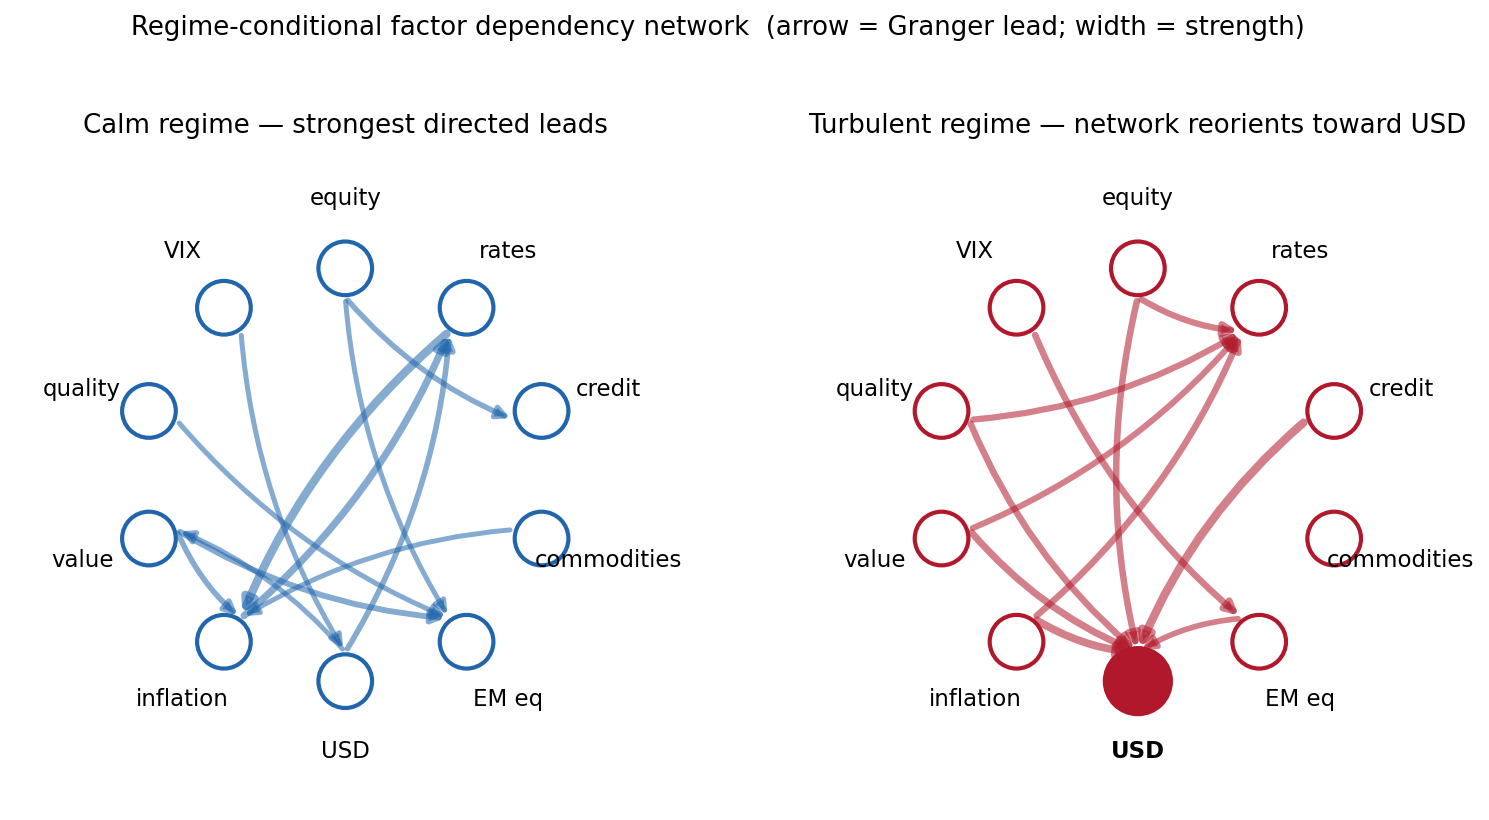
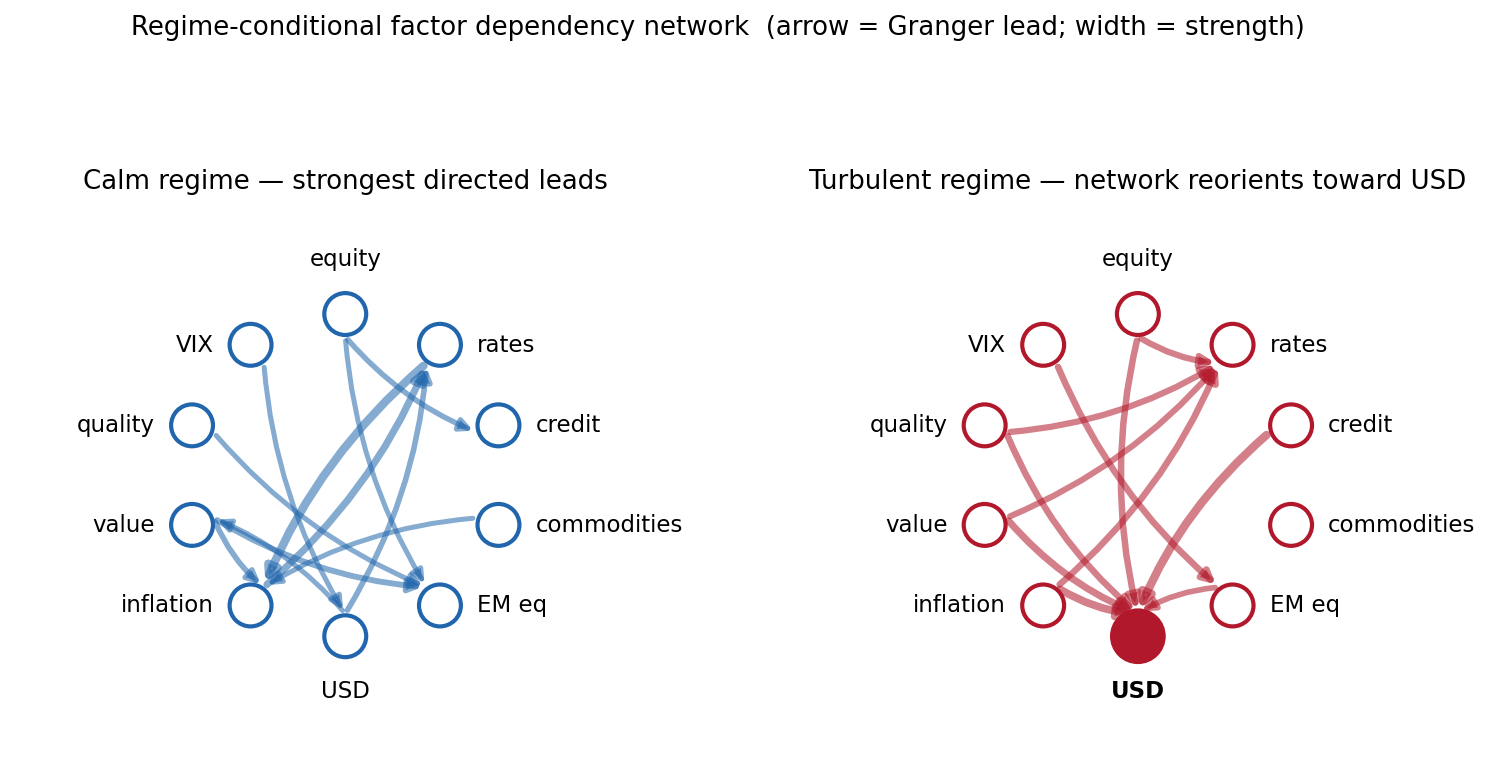
thesis_figures: fix two label collisions
Figure 1.1: the dashed TRIGGER/ANATOMY divider ran the full height of the panel
and printed straight through the amber straddling row's two grey annotation
lines. It now stops above that row; the white gutter between the two coloured
panels carries the separation the rest of the way down.

Figure 4.4: node labels were placed radially with ha='center', so a long flank
label ran back over its own circle -- 'commodities' collided with its node in
both the calm and turbulent panels. Labels on the flanks are now anchored just
outside the circle and run outward, with the x-limits widened to fit the longest.

diff --git a/thesis_figures.py b/thesis_figures.py
@@ -65,7 +65,10 @@ def fig_boundary():
     fig, ax = plt.subplots(figsize=(12, 6)); ax.axis("off"); ax.set_xlim(0,10); ax.set_ylim(0,10)
     ax.add_patch(plt.Rectangle((0.2,0.8),4.5,8.4, fc="#fdecea", ec="none"))
     ax.add_patch(plt.Rectangle((5.3,0.8),4.5,8.4, fc="#e9f3ec", ec="none"))
-    ax.plot([5.0,5.0],[0.8,9.2], ls=(0,(6,4)), color="0.3", lw=2.5)
+    # stops above the amber straddling row: it used to print straight through that
+    # row's two grey lines, and a stub below them reads as debris. The white gutter
+    # between the two panels carries the separation the rest of the way down.
+    ax.plot([5.0,5.0],[3.32,9.2], ls=(0,(6,4)), color="0.3", lw=2.5)
     fig.suptitle("The predictability boundary: what a stress signal can and cannot forecast",
                  fontsize=14, fontweight="bold", y=0.99)
     ax.text(2.45,9.55,"TRIGGER", ha="center", fontsize=20, fontweight="bold", color=RED)
@@ -211,9 +214,15 @@ def _draw_net(ax, edges, color, title, sink=None):
         big = (f==sink)
         ax.add_patch(Circle((x,y), 0.16 if big else 0.13,
             fc=(color if big else "white"), ec=color, lw=2, zorder=3))
-        ax.text(x*1.34, y*1.34, NAME[f], ha="center", va="center", fontsize=11,
+        # anchor flank labels outside the circle and run them outward; a centred
+        # radial label put "commodities" back on top of its own node.
+        r = 0.16 if big else 0.13
+        if   x >  0.3: ha, lx, ly = "left",   x + r + 0.10, y
+        elif x < -0.3: ha, lx, ly = "right",  x - r - 0.10, y
+        else:          ha, lx, ly = "center", x * 1.34,     y * 1.34
+        ax.text(lx, ly, NAME[f], ha=ha, va="center", fontsize=11,
                 fontweight="bold" if big else "normal")
-    ax.set_xlim(-1.6,1.6); ax.set_ylim(-1.6,1.6); ax.axis("off"); ax.set_aspect("equal")
+    ax.set_xlim(-2.05,2.05); ax.set_ylim(-1.7,1.7); ax.axis("off"); ax.set_aspect("equal")
     ax.set_title(title, fontsize=12.5)
 
 def fig_causal_networks():
